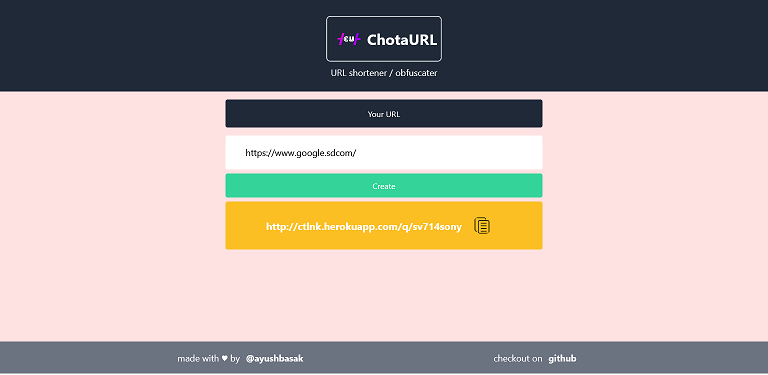
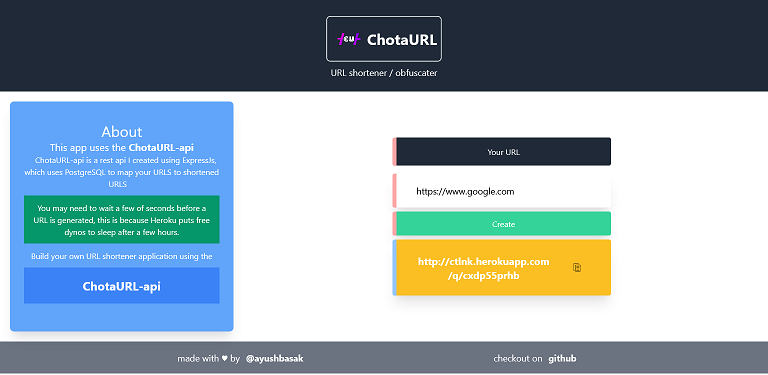
Fix UI bug
- copy icon breaking

- Update Screenshots in README

diff --git a/src/components/Main.components.js b/src/components/Main.components.js
@@ -8,7 +8,7 @@ const Main = ({chandler, post, final, copy})=>{
                 <span className ="shadow bg-gray-800 text-white w-11/12 lg:w-5/12 py-4 m-2 text-center rounded border-l-8 border-red-300">Your URL</span>
                 <input onChange = {chandler} className = "shadow-xl w-11/12 lg:w-5/12 px-10 py-5 m-2 text-lg focus:outline-none rounded border-l-8 border-red-300" placeholder = "Enter URL"></input>
                 <button onClick = {post} className="shadow-xl bg-green-400 p-3 text-white w-11/12 lg:w-5/12 hover:bg-green-500 rounded border-l-8 border-red-300">Create</button>
-                <span className=" shadow-xl bg-yellow-400 p-7 w-80 lg:w-5/12 text-center m-2 font-bold text-sm lg:text-xl text-white rounded flex flex-row justify-center items-center lg:flex-shrink-0 border-l-8 border-blue-300">
+                <span className=" shadow-xl bg-yellow-400 p-7 w-80 lg:w-5/12 text-center m-2 font-bold text-sm lg:text-xl text-white rounded flex flex-col lg:flex-row justify-center items-center lg:flex-shrink-0 border-l-8 border-blue-300">
                     <span className="overflow-ellipsis">{final}</span>
                     <img src="copy.svg" alt = "copy" className="mx-5 w-10 h-10 p-3 cursor-pointer hover:bg-yellow-300 rounded-xl" onClick={copy}></img>
                 </span>
